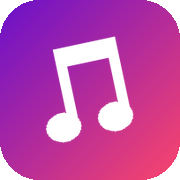
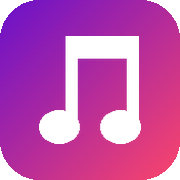
图标去掉倾斜：双音符水平放置，两干等高，梁水平

Changed region(s): [[0.1944, 0.1944, 0.8056, 0.8056]]

diff --git a/gen_icons.py b/gen_icons.py
@@ -25,10 +25,10 @@ def gradient_bg(size):
                     px[x + dx, y] = (r, g, b)
     return img
 
-def render_tilted_note(size, tilt=12, note_h_ratio=0.60):
-    """Apple Music 风格倾斜双音符：粗壮圆润部件 + 整体上扬倾斜，裁剪后精确居中
+def render_tilted_note(size, tilt=0, note_h_ratio=0.60):
+    """Apple Music 风格双音符：粗壮圆润部件，水平放置（两干等高），裁剪后精确居中
 
-    流程：透明图层画水平双音符 -> rotate(tilt) 左低右高上扬姿态
+    流程：透明图层画水平双音符 -> rotate(tilt)（默认 0 不倾斜）
     -> 裁剪 ink bbox -> 等比缩放到目标高度 -> 返回居中坐标
     """
     k = size / 512.0
@@ -59,7 +59,7 @@ def render_tilted_note(size, tilt=12, note_h_ratio=0.60):
     d.rectangle([c - dist - stem_w/2, y_top,
                  c + dist + stem_w/2, y_top + beam_h], fill=white)
 
-    # 整体倾斜（PIL 正角度=逆时针：梁右端上扬、左端下垂，形成上扬姿态）
+    # 整体姿态（tilt=0 时为水平，两干等高）
     rotated = layer.rotate(tilt, resample=Image.BICUBIC, expand=False)
     # 裁剪实际字形并缩放到目标高度
     bbox = rotated.getbbox()
@@ -73,8 +73,8 @@ def render_tilted_note(size, tilt=12, note_h_ratio=0.60):
     return note, (x, y)
 
 def draw_apple_style_note(img, size, note_h_ratio=0.60):
-    """在渐变背景上合成 Apple 风格倾斜音符（居中）"""
-    note, (x, y) = render_tilted_note(size, tilt=12, note_h_ratio=note_h_ratio)
+    """在渐变背景上合成 Apple 风格水平音符（居中，两干等高）"""
+    note, (x, y) = render_tilted_note(size, tilt=0, note_h_ratio=note_h_ratio)
     img.alpha_composite(note, (x, y))
     return img
 
